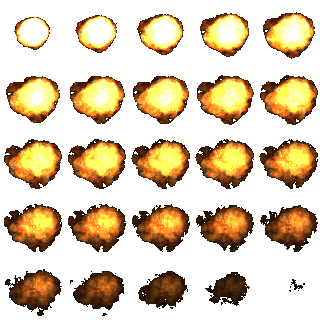
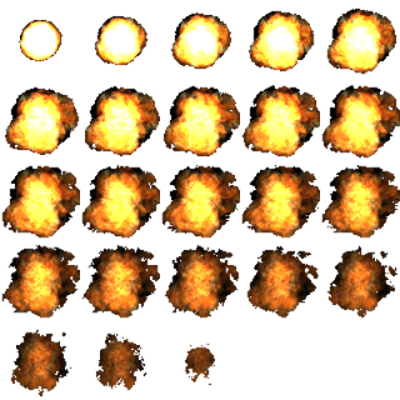
commit TP 20 janvier
background
ecran start
cadre
finaliser code au propre

diff --git a/web-static/js/Game.js b/web-static/js/Game.js
@@ -28,7 +28,13 @@ var Game = function(){
 		"JellyKid-Crouching-red" : "/web-static/img/jellyKid-Crouching-red.png",
 		"Start" : "/web-static/img/start.png",
 		"Game Over" : "/web-static/img/gameover.png",
-		"Explosion" : "/web-static/img/explosion.png"
+		"Explosion" : "/web-static/img/boum.png",
+		"Bonus-red" : "/web-static/img/redBonus.png",
+		"Bonus" : "/web-static/img/blueBonus.png",
+		"eaten" : "/web-static/img/eclat.png",
+		"eaten-red" : "/web-static/img/eclat-red.png",
+		"blueWrong" : "/web-static/img/blueFailed.png",
+		"redWrong" : "/web-static/img/redFailed.png",
 	};
 	
 	var soundList = {
@@ -36,7 +42,9 @@ var Game = function(){
 		"death" : "/web-static/sounds/JellyKidDiesFade2.wav",
 		"GOMusic" : "/web-static/sounds/gameOver.mp3",
 		"cookie" : "/web-static/sounds/cookie.mp3",
-		"ouch" : "/web-static/sounds/ouch.mp3"
+		"ouch" : "/web-static/sounds/ouch.mp3",
+		"wrong" : "/web-static/sounds/wrong.wav",
+		"explosion" : "/web-static/sounds/explosion.mp3"
 	};
 	this.assetManager = new AssetManager();
 	this.assetManager.startLoading(imageList, soundList);
@@ -94,7 +102,7 @@ Game.prototype.mainLoop = function(){
 			if(player.enterPressed)
 			{
 				player.enterPressed = false;
-				this.gameState = "Game Over";
+				this.gameState = "Game Loop";
 			}
 			
 			graphics.restore();
@@ -110,10 +118,10 @@ Game.prototype.mainLoop = function(){
 			
 			var music = this.assetManager.getSound("music");
 			music.loop = true;
-			music.volume = 1;
+			music.volume = 0;
 			music.play();
 		
-			player.Update(localTimeDelta / 1000, this.localTime);
+			player.Update(localTimeDelta / 1000, this.localTime, enemyManager.speed);
 			
 			if(player.health <= 0)
 			{
@@ -161,10 +169,10 @@ Game.prototype.mainLoop = function(){
 					this.CheckCollision(player, enemyList[i]);
 				}
 				
-				if(enemyList[i].type != 3 && enemyList[i].type != 4)
-					enemyList[i].render(graphics);
-				else if (enemyList[i].active)
-					enemyList[i].render(graphics);
+				// if(enemyList[i].type != 3 && enemyList[i].type != 4)
+					// enemyList[i].render(graphics);
+				// else if (enemyList[i].active)
+				enemyList[i].render(graphics);
 			}
 			
 			graphics.font = "30px Comic Sans MS";
@@ -188,6 +196,7 @@ Game.prototype.mainLoop = function(){
 
 			graphics.fillStyle = "blue";
 			graphics.fillText("Combo : " + player.combo, 700, 50);
+
 			
 			graphics.restore();
 			
@@ -211,20 +220,21 @@ Game.prototype.mainLoop = function(){
 				graphics.font = "30px Comic Sans MS";
 				
 				var gradient=graphics.createLinearGradient(0,0,graphics.canvas.width,0);
-				gradient.addColorStop("0","blue");
+				gradient.addColorStop("0","red");
 				gradient.addColorStop("0.5","orange");
-				gradient.addColorStop("1.0","blue");
+				gradient.addColorStop("1.0","red");
 				
 				
 				graphics.fillStyle=gradient;
-				graphics.fillText("Press ENTER to play again !", graphics.canvas.width/2, 170);
+				graphics.fillText("Press ENTER to play again !", graphics.canvas.width/2 + 200, 150);
 
-				graphics.fillText("You are DEAD !", graphics.canvas.width/2, 120);
+				graphics.fillText("You are DEAD !", graphics.canvas.width/2 - 200, 120);
 				
 				player.score = 0;
 				player.combo = 0;
 				player.health = 5;
-				enemyManager.speed = 80;
+				player.framerate = 5;
+				enemyManager.speed = 65;
 				
 				enemyList = [];
 				
@@ -253,7 +263,6 @@ Game.prototype.CheckCollision = function(player, enemy){
 		
 			if(enemy.type == 3 || enemy.type == 4)
 			{
-				console.log("yyyy");
 				enemy.collisionDone = true;
 				
 				if(player.color == enemy.color)
@@ -261,19 +270,36 @@ Game.prototype.CheckCollision = function(player, enemy){
 					player.score += enemy.scoreValue;
 					player.combo ++;
 					
+					enemy.setSprite("eclat");
+					enemy.currentSprite.setCenter(50, 50);
+					
 					var cookieSound = this.assetManager.getSound("cookie");
 					cookieSound.loop = false;
 					cookieSound.volume = 0.8;
 					cookieSound.play();
 				}
+				else
+				{
+					enemy.setSprite("wrong");
+					enemy.currentSprite.setCenter(50, 50);
 				
-				enemy.active = false;
+					var wrongSound = this.assetManager.getSound("wrong");
+					wrongSound.loop = false;
+					wrongSound.volume = 0.8;
+					wrongSound.play();
+				}
 			}
 			else{
 				player.health -= enemy.dmg;
 				enemy.collisionDone = true;
 				player.combo = 0;
 				enemy.setSprite("explosion");
+				enemy.currentSprite.setCenter(50, 50);
+				
+				var boumSound = this.assetManager.getSound("explosion");
+					boumSound.loop = false;
+					boumSound.volume = 0.5;
+					boumSound.play();
 				
 				var ouchSound = this.assetManager.getSound("ouch");
 					ouchSound.loop = false;

diff --git a/web-static/js/Enemy.js b/web-static/js/Enemy.js
@@ -25,11 +25,12 @@ Enemy.prototype.init = function(x, color, type, speed){
 	this.color = color;
 	this.active = true;
 	this.speed = speed;
-	this.createSprite("explosion", this.assetManager.getImage("Explosion"), 320, 320, 5, 5, false);
 	
+		
 	switch(type){
 		case 1 :
 			this.createSprite("impossibear-idle", this.assetManager.getImage("Impossibear"), 120, 144, 1, 1, true);
+			this.createSprite("explosion", this.assetManager.getImage("Explosion"), 500, 500, 5, 5, false);
 	
 			this.setSprite("impossibear-idle");
 			
@@ -43,13 +44,14 @@ Enemy.prototype.init = function(x, color, type, speed){
 		
 		case 2 :
 			this.createSprite("Catbug", this.assetManager.getImage("catbug"), 200, 100, 2, 1, true);
+			this.createSprite("explosion", this.assetManager.getImage("Explosion"), 500, 500, 5, 5, false);
 	
 			this.setSprite("Catbug");
 			
 			this.currentSprite.setCenter(50, 50);
 			
 			this.y = 430;
-			this.width = 80;
+			this.width = 70;
 			this.height = 80;
 			this.type = 2;
 		break;
@@ -58,16 +60,22 @@ Enemy.prototype.init = function(x, color, type, speed){
 		
 			if (this.color == "blue")
 			{
-				this.createSprite("Run", this.assetManager.getImage("JellykidRuns"), 200, 100, 2, 1, true);
-				this.setSprite("Run");
+				this.createSprite("blueBonus", this.assetManager.getImage("Bonus"), 80, 93, 1, 1, true);
+				this.createSprite("eclat", this.assetManager.getImage("eaten"), 80, 93, 1, 1, false);
+				this.createSprite("wrong", this.assetManager.getImage("blueWrong"), 100, 100, 1, 1, false);
+				this.setSprite("blueBonus");
+				this.currentSprite.setCenter(40, 46);
 			}
 			else
 			{
-				this.createSprite("Run-red", this.assetManager.getImage("JellykidRuns-red"), 200, 100, 2, 1, true);
-				this.setSprite("Run-red");
+				this.createSprite("redBonuscookie", this.assetManager.getImage("Bonus-red"), 80, 93, 1, 1, true);
+				this.createSprite("eclat", this.assetManager.getImage("eaten-red"), 80, 93, 1, 1, false);
+				this.createSprite("wrong", this.assetManager.getImage("redWrong"), 100, 100, 1, 1, false);
+				this.setSprite("redBonuscookie");
+				this.currentSprite.setCenter(40, 46);
 			}
 		
-			this.y = 380;
+			this.y = 330;
 			this.width = 80;
 			this.height = 80;
 			this.type = 3;
@@ -78,16 +86,22 @@ Enemy.prototype.init = function(x, color, type, speed){
 		
 			if (this.color == "blue")
 			{
-				this.createSprite("Run", this.assetManager.getImage("JellykidRuns"), 200, 100, 2, 1, true);
-				this.setSprite("Run");
+				this.createSprite("blueBonus", this.assetManager.getImage("Bonus"), 80, 93, 1, 1, true);
+				this.createSprite("eclat", this.assetManager.getImage("eaten"), 80, 93, 1, 1, false);
+				this.createSprite("wrong", this.assetManager.getImage("blueWrong"), 100, 100, 1, 1, false);
+				this.setSprite("blueBonus");
+				this.currentSprite.setCenter(40, 46);
 			}
 			else
 			{
-				this.createSprite("Run-red", this.assetManager.getImage("JellykidRuns-red"), 200, 100, 2, 1, true);
-				this.setSprite("Run-red");
+				this.createSprite("redBonuscookie", this.assetManager.getImage("Bonus-red"), 80, 93, 1, 1, true);
+				this.createSprite("eclat", this.assetManager.getImage("eaten-red"), 80, 93, 1, 1, false);
+				this.createSprite("wrong", this.assetManager.getImage("redWrong"), 100, 100, 1, 1, false);
+				this.setSprite("redBonuscookie");
+				this.currentSprite.setCenter(40, 46);
 			}
 		
-			this.y = 600 - this.currentSprite.height;
+			this.y = 500;
 			this.width = 80;
 			this.height = 80;
 			this.type = 3;

diff --git a/web-static/js/EnemyManager.js b/web-static/js/EnemyManager.js
@@ -1,7 +1,7 @@
 var EnemyManager = function(assetManager){
 	self = this;
 	
-	this.speed = 60;
+	this.speed = 65;
 	
 	this.assetManager = assetManager;
 	
@@ -37,10 +37,10 @@ EnemyManager.prototype.AddPattern = function(enemyList, patternIndex){
 
 EnemyManager.prototype.Update = function(deltaTime){
 
-	if (this.speed < 90)
+	if (this.speed < 107)
 		this.speed += 0.2 * deltaTime;
 	else
-		this.speed = 90;
+		this.speed = 107;
 };
 
 EnemyManager.prototype.AddEnnemies = function(enemyList, pattern){

diff --git a/web-static/js/Player.js b/web-static/js/Player.js
@@ -71,8 +71,9 @@ Player.prototype = new Character();
 Player.prototype.init = function(){
 };
 
-Player.prototype.Update = function(deltaTime, gameTime){
+Player.prototype.Update = function(deltaTime, gameTime, speed){
 	this.gameTime = gameTime;
+	this.frameRate = speed / 10;
 	this.currentSprite.setFrameRate(this.frameRate);
 	
 	if(this.isJumping)
